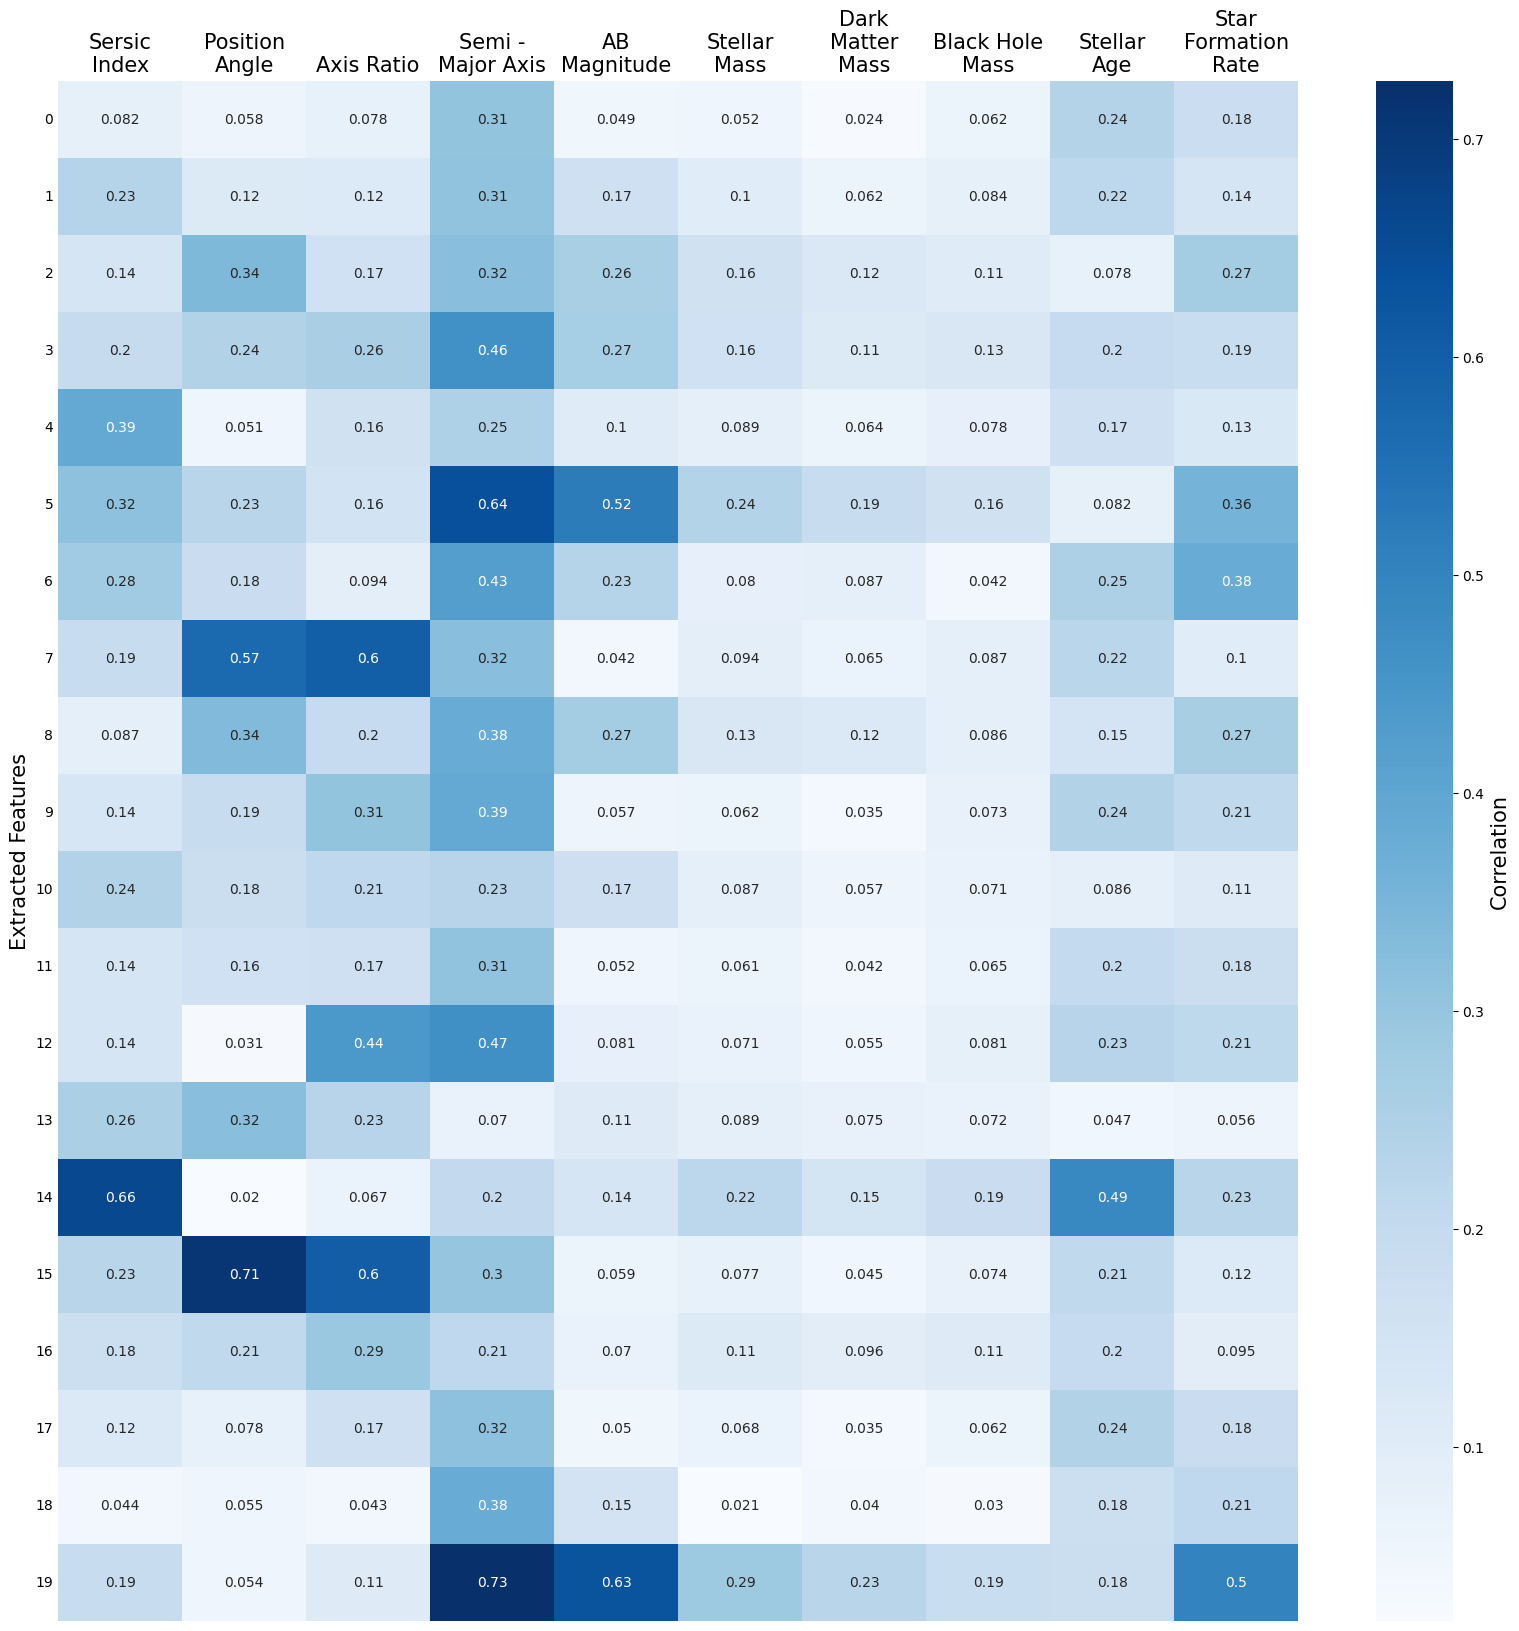
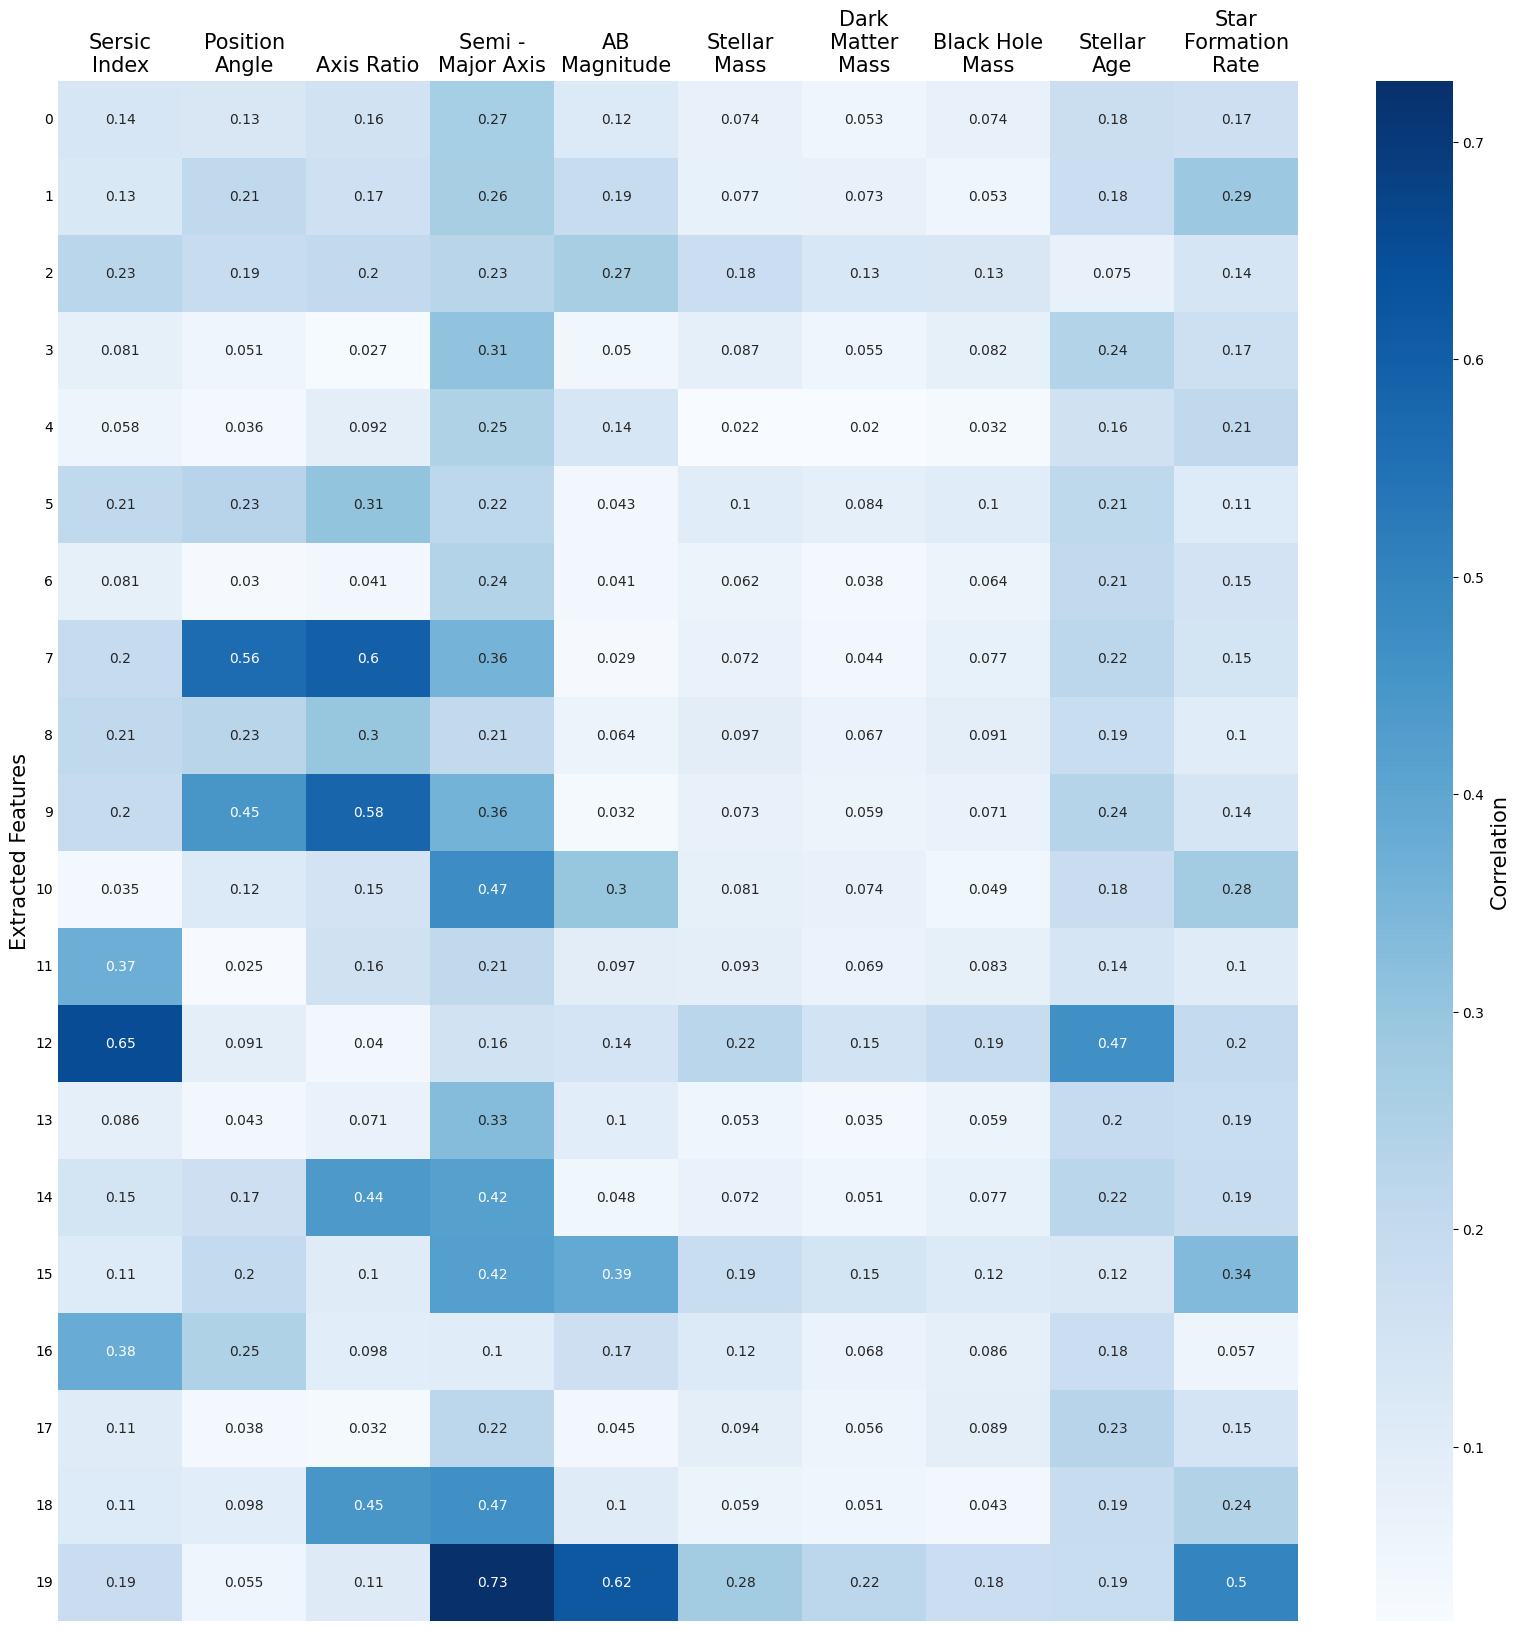
Code

diff --git a/comparison-clusters.py b/comparison-clusters.py
@@ -25,9 +25,9 @@ pd.set_option('display.width', 1000)
 
 
 # set the encoding dimension (number of extracted features)
-encoding_dim = 25
+encoding_dim = 20
 
-run = 2
+run = 3
 
 # set the number of clusters
 n_clusters = 2
@@ -146,7 +146,7 @@ print(len(all_properties))
 all_properties = all_properties.iloc[:-200]
 
 # load the extracted features
-extracted_features = np.load("Variational Eagle/Extracted Features/Fully Balanced/" + str(encoding_dim) + "_feature_300_epoch_features_" + str(run) + ".npy")[0]
+extracted_features = np.load("Variational Eagle/Extracted Features/Balanced/" + str(encoding_dim) + "_feature_300_epoch_features_" + str(run) + ".npy")[0]
 encoding_dim = extracted_features.shape[1]
 extracted_features_switch = extracted_features.T
 
@@ -410,93 +410,93 @@ plt.show()
 
 
 # all physical histogram
-fig, axs = plt.subplots(3, 2, figsize=(20, 18))
-
-bins = np.histogram_bin_edges(all_properties["re_r"], bins=20)
-combined_bins = np.sum(np.histogram(all_properties["re_r"], bins=bins[20:])[0])
-new_bins = np.concatenate((bins[:20], [bins[20]]))
-hist_counts = np.concatenate((np.histogram(all_properties["re_r"], bins=bins[:20])[0], [combined_bins]))
-
-a1 = sns.histplot(ax=axs[0, 0], data=all_properties, x="re_r", bins=new_bins, stat="probability", common_norm=False, hue="Cluster", palette="colorblind", hue_order=[1, 0])
-# a1 = sns.histplot(ax=axs[0], data=all_properties, x="re_r", stat="probability", common_norm=False, hue="Cluster", palette="colorblind", hue_order=[1, 0], bins=20, legend=False)
-a1.set_ylabel("Normalised Frequency", fontsize=20)
-a1.set_xlabel("Semi-Major Axis (pkpc)", fontsize=20)
-a1.set_yticks([])
-a1.tick_params(labelsize=20)
-a1.legend(["More Featured Group", "Less Featured Group"], bbox_to_anchor=(0.52, 0.93), loc='upper center', bbox_transform=fig.transFigure, ncol=2, prop={"size":20})
-
-
-a2 = sns.histplot(ax=axs[1, 0], data=all_properties, x="InitialMassWeightedStellarAge", stat="probability", common_norm=False, hue="Cluster", palette="colorblind", hue_order=[1, 0], bins=20, legend=False)
-a2.set_ylabel("Normalised Frequency", fontsize=20)
-a2.set_xlabel("Stellar Age (Gyr)", fontsize=20)
-a2.set_yticks([])
-a2.tick_params(labelsize=20)
-
-a3 = sns.histplot(ax=axs[2, 0], data=all_properties, x="StarFormationRate", stat="probability", common_norm=False, hue="Cluster", palette="colorblind", hue_order=[1, 0], bins=50, legend=False)
-a3.set_ylabel("Normalised Frequency", fontsize=20)
-# a3.set_xlabel("Star Formation Rate ($\mathrm{M}_{\odot}\mathrm{yr}^{-1}$)", fontsize=20)
-a3.set_xlabel("Star Formation Rate (M$_{\odot}$yr$^{-1}$)", fontsize=20)
-
-a3.set_yticks([])
-a3.set_xlim(0, 6)
-a3.tick_params(labelsize=20)
-
-
-
-stellar_mass = all_properties["MassType_Star"].div(1e10)
-
-bins = np.histogram_bin_edges(stellar_mass, bins=100)
-combined_bins = np.sum(np.histogram(stellar_mass, bins=bins[20:])[0])
-new_bins = np.concatenate((bins[:20], [bins[20]]))
-hist_counts = np.concatenate((np.histogram(stellar_mass, bins=bins[:20])[0], [combined_bins]))
-
-a1 = sns.histplot(ax=axs[0, 1], data=all_properties, x=stellar_mass, bins=new_bins, hue="Cluster", palette="colorblind", stat="probability", common_norm=False, hue_order=[1,0], legend=False)
-# a1 = sns.histplot(ax=axs[0], data=all_properties, x="MassType_Star", stat="probability", common_norm=False, hue="Cluster", palette="colorblind", hue_order=[1, 0], bins=50, legend=False)
-a1.set_ylabel("Normalised Frequency", fontsize=20)
-# a1.set_xlabel("Stellar Mass ($10^{10} \mathrm{M}_{\odot}$)", fontsize=20)
-a1.set_xlabel("Stellar Mass ($10^{10}$M$_{\odot}$)", fontsize=20)
-a1.set_yticks([])
-a1.set_xticks([0, 5, 10])
-a1.tick_params(labelsize=20)
-
-
-
-dm_mass = all_properties["MassType_DM"].div(1e12)
-
-bins = np.histogram_bin_edges(dm_mass, bins=250)
-combined_bins = np.sum(np.histogram(dm_mass, bins=bins[20:])[0])
-new_bins = np.concatenate((bins[:20], [bins[20]]))
-hist_counts = np.concatenate((np.histogram(dm_mass, bins=bins[:20])[0], [combined_bins]))
-
-a2 = sns.histplot(ax=axs[1, 1], data=all_properties, x=dm_mass, bins=new_bins, hue="Cluster", palette="colorblind", stat="probability", common_norm=False, hue_order=[1,0], legend=False)
-# a2 = sns.histplot(ax=axs[1], data=all_properties, x="MassType_DM", stat="probability", common_norm=False, hue="Cluster", palette="colorblind", hue_order=[1, 0], bins=170)
-a2.set_ylabel("Normalised Frequency", fontsize=20)
-# a2.set_xlabel("Dark Matter Mass ($10^{12} \mathrm{M}_{\odot}$)", fontsize=20)
-a2.set_xlabel("Dark Matter Mass ($10^{12}$M$_{\odot}$)", fontsize=20)
-a2.set_yticks([])
-a2.set_xticks([0, 5, 10])
-a2.tick_params(labelsize=20)
-# a2.legend(["More Featured Group", "Less Featured Group"], bbox_to_anchor=(0., 1.00, 1., .100), loc='lower center', ncol=2, prop={"size":20})
-
-
-bh_mass = all_properties["MassType_BH"].div(1e8)
-
-bins = np.histogram_bin_edges(bh_mass, bins=250)
-combined_bins = np.sum(np.histogram(bh_mass, bins=bins[20:])[0])
-new_bins = np.concatenate((bins[:20], [bins[20]]))
-hist_counts = np.concatenate((np.histogram(bh_mass, bins=bins[:20])[0], [combined_bins]))
-
-a3 = sns.histplot(ax=axs[2, 1], data=all_properties, x=bh_mass, bins=new_bins, hue="Cluster", palette="colorblind", stat="probability", common_norm=False, hue_order=[1,0], legend=False)
-# a3 = sns.histplot(ax=axs[2], data=all_properties, x="MassType_BH", stat="probability", common_norm=False, hue="Cluster", palette="colorblind", hue_order=[1, 0], bins=150, legend=False)
-a3.set_ylabel("Normalised Frequency", fontsize=20)
-# a3.set_xlabel("Black Hole Mass ($10^{8} \mathrm{M}_{\odot}$)", fontsize=20)
-a3.set_xlabel("Black Hole Mass ($10^{8}$M$_{\odot}$)", fontsize=20)
-a3.set_yticks([])
-# a3.set_xlim(0, 0.5e9)
-a3.tick_params(labelsize=20)
-
-# plt.savefig("Cluster Properties/" + str(encoding_dim) + "_feature_" + str(n_clusters) + "_cluster_all_physical_distribution", bbox_inches='tight')
-plt.show()
+# fig, axs = plt.subplots(3, 2, figsize=(20, 18))
+#
+# bins = np.histogram_bin_edges(all_properties["re_r"], bins=20)
+# combined_bins = np.sum(np.histogram(all_properties["re_r"], bins=bins[20:])[0])
+# new_bins = np.concatenate((bins[:20], [bins[20]]))
+# hist_counts = np.concatenate((np.histogram(all_properties["re_r"], bins=bins[:20])[0], [combined_bins]))
+#
+# a1 = sns.histplot(ax=axs[0, 0], data=all_properties, x="re_r", bins=new_bins, stat="probability", common_norm=False, hue="Cluster", palette="colorblind", hue_order=[1, 0])
+# # a1 = sns.histplot(ax=axs[0], data=all_properties, x="re_r", stat="probability", common_norm=False, hue="Cluster", palette="colorblind", hue_order=[1, 0], bins=20, legend=False)
+# a1.set_ylabel("Normalised Frequency", fontsize=20)
+# a1.set_xlabel("Semi-Major Axis (pkpc)", fontsize=20)
+# a1.set_yticks([])
+# a1.tick_params(labelsize=20)
+# a1.legend(["More Featured Group", "Less Featured Group"], bbox_to_anchor=(0.52, 0.93), loc='upper center', bbox_transform=fig.transFigure, ncol=2, prop={"size":20})
+#
+#
+# a2 = sns.histplot(ax=axs[1, 0], data=all_properties, x="InitialMassWeightedStellarAge", stat="probability", common_norm=False, hue="Cluster", palette="colorblind", hue_order=[1, 0], bins=20, legend=False)
+# a2.set_ylabel("Normalised Frequency", fontsize=20)
+# a2.set_xlabel("Stellar Age (Gyr)", fontsize=20)
+# a2.set_yticks([])
+# a2.tick_params(labelsize=20)
+#
+# a3 = sns.histplot(ax=axs[2, 0], data=all_properties, x="StarFormationRate", stat="probability", common_norm=False, hue="Cluster", palette="colorblind", hue_order=[1, 0], bins=50, legend=False)
+# a3.set_ylabel("Normalised Frequency", fontsize=20)
+# # a3.set_xlabel("Star Formation Rate ($\mathrm{M}_{\odot}\mathrm{yr}^{-1}$)", fontsize=20)
+# a3.set_xlabel("Star Formation Rate (M$_{\odot}$yr$^{-1}$)", fontsize=20)
+#
+# a3.set_yticks([])
+# a3.set_xlim(0, 6)
+# a3.tick_params(labelsize=20)
+#
+#
+#
+# stellar_mass = all_properties["MassType_Star"].div(1e10)
+#
+# bins = np.histogram_bin_edges(stellar_mass, bins=100)
+# combined_bins = np.sum(np.histogram(stellar_mass, bins=bins[20:])[0])
+# new_bins = np.concatenate((bins[:20], [bins[20]]))
+# hist_counts = np.concatenate((np.histogram(stellar_mass, bins=bins[:20])[0], [combined_bins]))
+#
+# a1 = sns.histplot(ax=axs[0, 1], data=all_properties, x=stellar_mass, bins=new_bins, hue="Cluster", palette="colorblind", stat="probability", common_norm=False, hue_order=[1,0], legend=False)
+# # a1 = sns.histplot(ax=axs[0], data=all_properties, x="MassType_Star", stat="probability", common_norm=False, hue="Cluster", palette="colorblind", hue_order=[1, 0], bins=50, legend=False)
+# a1.set_ylabel("Normalised Frequency", fontsize=20)
+# # a1.set_xlabel("Stellar Mass ($10^{10} \mathrm{M}_{\odot}$)", fontsize=20)
+# a1.set_xlabel("Stellar Mass ($10^{10}$M$_{\odot}$)", fontsize=20)
+# a1.set_yticks([])
+# a1.set_xticks([0, 5, 10])
+# a1.tick_params(labelsize=20)
+#
+#
+#
+# dm_mass = all_properties["MassType_DM"].div(1e12)
+#
+# bins = np.histogram_bin_edges(dm_mass, bins=250)
+# combined_bins = np.sum(np.histogram(dm_mass, bins=bins[20:])[0])
+# new_bins = np.concatenate((bins[:20], [bins[20]]))
+# hist_counts = np.concatenate((np.histogram(dm_mass, bins=bins[:20])[0], [combined_bins]))
+#
+# a2 = sns.histplot(ax=axs[1, 1], data=all_properties, x=dm_mass, bins=new_bins, hue="Cluster", palette="colorblind", stat="probability", common_norm=False, hue_order=[1,0], legend=False)
+# # a2 = sns.histplot(ax=axs[1], data=all_properties, x="MassType_DM", stat="probability", common_norm=False, hue="Cluster", palette="colorblind", hue_order=[1, 0], bins=170)
+# a2.set_ylabel("Normalised Frequency", fontsize=20)
+# # a2.set_xlabel("Dark Matter Mass ($10^{12} \mathrm{M}_{\odot}$)", fontsize=20)
+# a2.set_xlabel("Dark Matter Mass ($10^{12}$M$_{\odot}$)", fontsize=20)
+# a2.set_yticks([])
+# a2.set_xticks([0, 5, 10])
+# a2.tick_params(labelsize=20)
+# # a2.legend(["More Featured Group", "Less Featured Group"], bbox_to_anchor=(0., 1.00, 1., .100), loc='lower center', ncol=2, prop={"size":20})
+#
+#
+# bh_mass = all_properties["MassType_BH"].div(1e8)
+#
+# bins = np.histogram_bin_edges(bh_mass, bins=250)
+# combined_bins = np.sum(np.histogram(bh_mass, bins=bins[20:])[0])
+# new_bins = np.concatenate((bins[:20], [bins[20]]))
+# hist_counts = np.concatenate((np.histogram(bh_mass, bins=bins[:20])[0], [combined_bins]))
+#
+# a3 = sns.histplot(ax=axs[2, 1], data=all_properties, x=bh_mass, bins=new_bins, hue="Cluster", palette="colorblind", stat="probability", common_norm=False, hue_order=[1,0], legend=False)
+# # a3 = sns.histplot(ax=axs[2], data=all_properties, x="MassType_BH", stat="probability", common_norm=False, hue="Cluster", palette="colorblind", hue_order=[1, 0], bins=150, legend=False)
+# a3.set_ylabel("Normalised Frequency", fontsize=20)
+# # a3.set_xlabel("Black Hole Mass ($10^{8} \mathrm{M}_{\odot}$)", fontsize=20)
+# a3.set_xlabel("Black Hole Mass ($10^{8}$M$_{\odot}$)", fontsize=20)
+# a3.set_yticks([])
+# # a3.set_xlim(0, 0.5e9)
+# a3.tick_params(labelsize=20)
+#
+# # plt.savefig("Cluster Properties/" + str(encoding_dim) + "_feature_" + str(n_clusters) + "_cluster_all_physical_distribution", bbox_inches='tight')
+# plt.show()
 
 
 

diff --git a/comparison-extracted_features.py b/comparison-extracted_features.py
@@ -19,8 +19,8 @@ pd.set_option('display.max_columns', None)
 pd.set_option('display.width', 500)
 
 
-encoding_dim = 25
-run = 3
+encoding_dim = 15
+run = 1
 
 
 
@@ -221,43 +221,41 @@ for feature in range(0, len(extracted_features_switch)):
 
 
 # set the figure size
-# plt.figure(figsize=(20, encoding_dim))
-plt.figure(figsize=(20, extracted_features_switch.shape[0]))
-
-
-# properties to plot
-selected_properties = ["Sersic Index", "Position Angle", "Axis Ratio", "Semi - Major Axis", "AB Magnitude", "Stellar Mass", "Dark Matter Mass", "Black Hole Mass", "Stellar Age", "Star Formation Rate"]
-
-
-# plot a heatmap for the dataframe (with annotations)
-ax = sns.heatmap(abs(correlation_df[selected_properties]), annot=True, cmap="Blues", cbar_kws={'label': 'Correlation'})
-
-
-
-plt.yticks(rotation=0)
-plt.ylabel("Extracted Features", fontsize=15)
-ax.xaxis.tick_top() # x axis on top
-ax.xaxis.set_label_position('top')
-ax.tick_params(length=0)
-ax.figure.axes[-1].yaxis.label.set_size(15)
-
-
-def wrap_labels(ax, width, break_long_words=False):
-    labels = []
-    for label in ax.get_xticklabels():
-        text = label.get_text()
-        labels.append(textwrap.fill(text, width=width,
-                      break_long_words=break_long_words))
-    ax.set_xticklabels(labels, rotation=0, fontsize=15)
-
-wrap_labels(ax, 10)
-
-
-
-plt.savefig("Variational Eagle/Correlation Plots/balanced_" + str(encoding_dim) + "_feature_vae_pca_all_property_correlation_" + str(run), bbox_inches='tight')
-plt.show()
-
-
+# # plt.figure(figsize=(20, encoding_dim))
+# plt.figure(figsize=(20, extracted_features_switch.shape[0]))
+#
+#
+# # properties to plot
+# selected_properties = ["Sersic Index", "Position Angle", "Axis Ratio", "Semi - Major Axis", "AB Magnitude", "Stellar Mass", "Dark Matter Mass", "Black Hole Mass", "Stellar Age", "Star Formation Rate"]
+#
+#
+# # plot a heatmap for the dataframe (with annotations)
+# ax = sns.heatmap(abs(correlation_df[selected_properties]), annot=True, cmap="Blues", cbar_kws={'label': 'Correlation'})
+#
+#
+#
+# plt.yticks(rotation=0)
+# plt.ylabel("Extracted Features", fontsize=15)
+# ax.xaxis.tick_top() # x axis on top
+# ax.xaxis.set_label_position('top')
+# ax.tick_params(length=0)
+# ax.figure.axes[-1].yaxis.label.set_size(15)
+#
+#
+# def wrap_labels(ax, width, break_long_words=False):
+#     labels = []
+#     for label in ax.get_xticklabels():
+#         text = label.get_text()
+#         labels.append(textwrap.fill(text, width=width,
+#                       break_long_words=break_long_words))
+#     ax.set_xticklabels(labels, rotation=0, fontsize=15)
+#
+# wrap_labels(ax, 10)
+#
+#
+#
+# plt.savefig("Variational Eagle/Correlation Plots/balanced_" + str(encoding_dim) + "_feature_vae_all_property_correlation_" + str(run), bbox_inches='tight')
+# plt.show()
 
 
 
@@ -265,43 +263,48 @@ plt.show()
 
 
 
-# properties = ["Sersic Index", "Position Angle", "Axis Ratio", "Semi - Major Axis", "Stellar Mass", "Dark Matter Mass", "Black Hole Mass", "Stellar Age", "Star Formation Rate"]
-properties = ["n_r", "pa_r", "q_r", "re_r", "InitialMassWeightedStellarAge", "StarFormationRate", "MassType_Star", "MassType_DM", "MassType_BH"]
+# scatter plot
+#
+# # properties = ["Sersic Index", "Position Angle", "Axis Ratio", "Semi - Major Axis", "Stellar Mass", "Dark Matter Mass", "Black Hole Mass", "Stellar Age", "Star Formation Rate"]
+# properties = ["n_r", "pa_r", "q_r", "re_r", "InitialMassWeightedStellarAge", "StarFormationRate", "MassType_Star", "MassType_DM", "MassType_BH"]
+#
+#
+# all_properties = all_properties[["n_r", "pa_r", "q_r", "re_r", "InitialMassWeightedStellarAge", "StarFormationRate", "MassType_Star", "MassType_DM", "MassType_BH"]]
+#
+# print(all_properties)
+#
+# property_labels = ["Sersic Index", "Position Angle", "Axis Ratio", "Semi - Major Axis", "Stellar Age", "Star Formation Rate", "Stellar Mass", "Dark Matter Mass", "Black Hole Mass"]
+#
+# # fig, axs = plt.subplots(encoding_dim, len(properties), figsize=(40, (encoding_dim * 4)))
+# fig, axs = plt.subplots(extracted_features_switch.shape[0], len(properties), figsize=(40, (encoding_dim * 4)))
+#
+# # fig, axs = plt.subplots(19, len(properties), figsize=(40, 70))
+#
+#
+# for i, property in enumerate(properties):
+#
+#     axs[0][i].set_title(property_labels[i], fontsize=20)
+#
+#     # for feature in range(0, 19):
+#     # for feature in range(0, encoding_dim):
+#     for feature in range(0, extracted_features_switch.shape[0]):
+#
+#         axs[feature][i].scatter(x=extracted_features_switch[feature], y=all_properties[property], s=0.5)
+#         # axs[feature][i].scatter(x=extracted_features_switch[feature+19], y=all_properties[property], s=0.5)
+#
+#         # sns.kdeplot(data=all_properties, x=extracted_features_switch[feature], y=all_properties[property], gridsize=200)
+#
+#         axs[feature][i].set_xlabel("Feature " + str(feature), fontsize=12)
+#         # axs[feature][i].set_xlabel("Feature " + str(feature+19), fontsize=12)
+#         axs[feature][i].set_ylabel(None)
+#         axs[feature][i].tick_params(labelsize=12)
+#
+# plt.savefig("Variational Eagle/Correlation Plots/scatter_balanced_" + str(encoding_dim) + "_feature_vae_all_property_correlation_" + str(run), bbox_inches='tight')
+# # plt.savefig("Variational Eagle/Correlation Plots/scatter_" + str(encoding_dim) + "_feature_all_property_correlation_p2", bbox_inches='tight')
+# plt.show()
 
 
-all_properties = all_properties[["n_r", "pa_r", "q_r", "re_r", "InitialMassWeightedStellarAge", "StarFormationRate", "MassType_Star", "MassType_DM", "MassType_BH"]]
 
-print(all_properties)
-
-property_labels = ["Sersic Index", "Position Angle", "Axis Ratio", "Semi - Major Axis", "Stellar Age", "Star Formation Rate", "Stellar Mass", "Dark Matter Mass", "Black Hole Mass"]
-
-# fig, axs = plt.subplots(encoding_dim, len(properties), figsize=(40, (encoding_dim * 4)))
-fig, axs = plt.subplots(extracted_features_switch.shape[0], len(properties), figsize=(40, (encoding_dim * 4)))
-
-# fig, axs = plt.subplots(19, len(properties), figsize=(40, 70))
-
-
-for i, property in enumerate(properties):
-
-    axs[0][i].set_title(property_labels[i], fontsize=20)
-
-    # for feature in range(0, 19):
-    # for feature in range(0, encoding_dim):
-    for feature in range(0, extracted_features_switch.shape[0]):
-
-        axs[feature][i].scatter(x=extracted_features_switch[feature], y=all_properties[property], s=0.5)
-        # axs[feature][i].scatter(x=extracted_features_switch[feature+19], y=all_properties[property], s=0.5)
-
-        # sns.kdeplot(data=all_properties, x=extracted_features_switch[feature], y=all_properties[property], gridsize=200)
-
-        axs[feature][i].set_xlabel("Feature " + str(feature), fontsize=12)
-        # axs[feature][i].set_xlabel("Feature " + str(feature+19), fontsize=12)
-        axs[feature][i].set_ylabel(None)
-        axs[feature][i].tick_params(labelsize=12)
-
-plt.savefig("Variational Eagle/Correlation Plots/scatter_balanced_" + str(encoding_dim) + "_feature_vae_pca_all_property_correlation_" + str(run), bbox_inches='tight')
-# plt.savefig("Variational Eagle/Correlation Plots/scatter_" + str(encoding_dim) + "_feature_all_property_correlation_p2", bbox_inches='tight')
-plt.show()
 
 
 

diff --git a/vae_eagle.py b/vae_eagle.py
@@ -18,13 +18,13 @@ from matplotlib import image as mpimg
 # tf.config.list_physical_devices('GPU')
 
 
-encoding_dim = 25
+encoding_dim = 15
 
-run = 3
+run = 1
 
 # select which gpu to use
 os.environ["CUDA_DEVICE_ORDER"]="PCI_BUS_ID"
-os.environ["CUDA_VISIBLE_DEVICES"]="9"
+os.environ["CUDA_VISIBLE_DEVICES"]="1"
 
 # number of epochs for run
 epochs = 300
